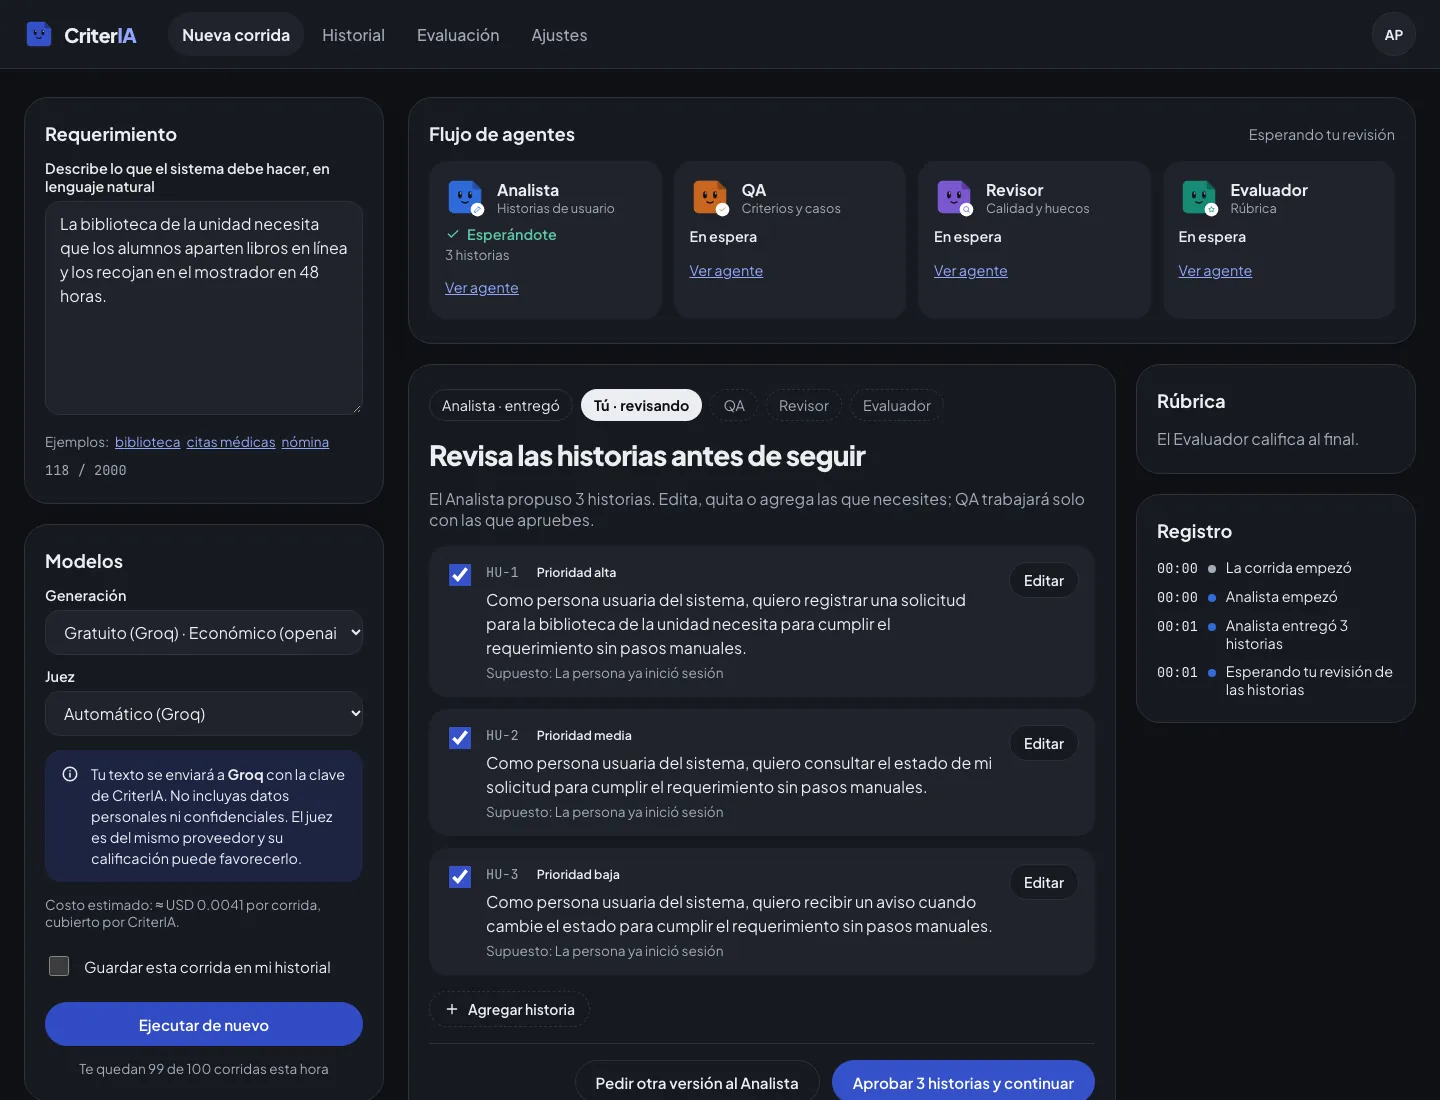
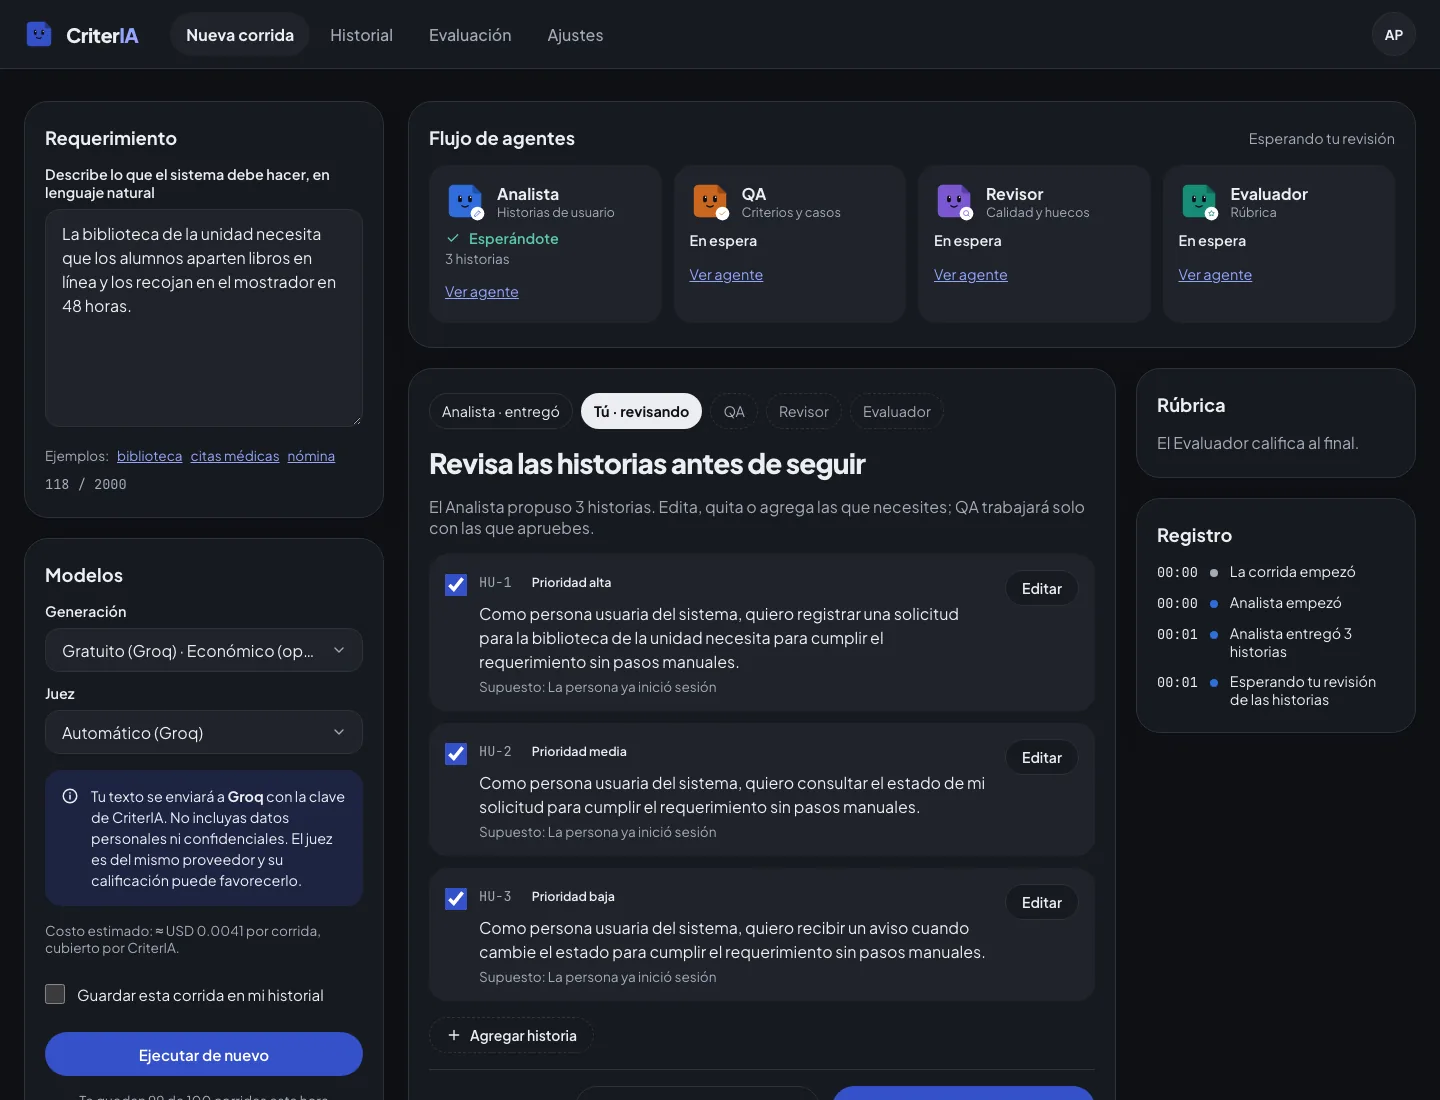
docs: document spacing and motion tokens and refresh the README screenshots

diff --git a/docs/ui.md b/docs/ui.md
@@ -1,0 +1,49 @@
+# Interfaz: espaciado y movimiento
+
+Los tokens viven en `apps/web/src/shared/ui/tokens.css`. Ningún módulo CSS usa valores sueltos para `padding`, `margin` o `gap`: si un valor no está en la escala, se ajusta al más cercano.
+
+## Espaciado
+
+| Token | Valor | Uso habitual |
+| --- | --- | --- |
+| `--space-4` | 4 px | Separación mínima entre icono y texto, desplazamiento de entrada |
+| `--space-8` | 8 px | Etiqueta y campo, elementos de una misma fila |
+| `--space-12` | 12 px | Ítems de una lista, distancia del chevron al texto del select |
+| `--space-16` | 16 px | Relleno horizontal de campos y avisos, entre campos de un formulario |
+| `--space-20` | 20 px | Relleno de tarjetas en 390 px |
+| `--space-24` | 24 px | Relleno de tarjetas en escritorio, entre tarjetas |
+| `--space-32` | 32 px | Entre secciones de una página |
+| `--space-40` | 40 px | Margen superior de la página de Privacidad |
+| `--space-48` | 48 px | Margen inferior de las páginas |
+
+Forma de los controles:
+
+- Campos, selects y botones miden `--size-control-min` (44 px) de alto; los botones `small` miden 36 px y solo comparten fila con otros botones `small`.
+- Los selects usan `appearance: none` y un chevron propio a `--space-16` del borde derecho, con relleno derecho suficiente para que el texto nunca lo toque. Cualquier icono dentro de un campo sigue la misma regla: centrado vertical exacto y distancia constante.
+- El icono de un aviso ocupa una caja del alto de la primera línea de texto, así queda alineado con ella aunque el aviso tenga varias líneas.
+
+## Movimiento
+
+| Token | Valor | Uso |
+| --- | --- | --- |
+| `--duration-fast` | 120 ms | Hover, foco y presión |
+| `--duration-base` | 200 ms | Cambio de pestaña, entrada de eventos y artefactos, salida del panel |
+| `--duration-slow` | 320 ms | Entrada del panel del agente |
+| `--ease-out` | `cubic-bezier(0, 0, 0.2, 1)` | Todo lo que entra |
+| `--ease-in` | `cubic-bezier(0.4, 0, 1, 1)` | Todo lo que sale |
+| `--motion-shift` | 4 px | Desplazamiento de una entrada |
+| `--motion-lift` | -1 px | Elevación de botones al pasar el cursor (las tarjetas usan el doble) |
+| `--motion-press` | 0.98 | Escala al presionar |
+| `--motion-slide` | 100 % | Recorrido del panel del agente |
+
+Reglas:
+
+- Solo se animan `transform` y `opacity`, para que nada provoque reflujo ni saltos de diseño.
+- Las clases compartidas están en `shared/ui/motion`: `enter` (fundido con desplazamiento leve), `fade` y `lift` (tarjetas que se pueden pulsar).
+- Mientras cargan datos se muestran esqueletos (`Skeleton`, `SkeletonCard`) con la forma del contenido, nunca un texto que luego empuja la página.
+- El panel del agente se desliza desde el borde derecho; al cerrar, incluido con Escape, el diálogo espera a que termine la salida antes de cerrarse.
+- Con `prefers-reduced-motion: reduce`, los tokens de distancia valen cero y la escala vale 1: las entradas quedan en un fundido, el panel aparece sin deslizarse, y los bucles (pulso de los esqueletos, parpadeo y balanceo de la Ficha) se detienen.
+
+## Verificación
+
+Las pruebas de pantallas de Playwright (`apps/web/e2e/screens`) corren en escritorio y 390 px, en claro y oscuro. En cada captura esperan a que terminen las animaciones finitas, pasan axe, verifican que no haya violaciones de CSP y, a 390 px, fallan si la página se desborda a lo ancho. Otra prueba confirma que con movimiento reducido los tokens de distancia valen cero.

diff --git a/docs/architecture.md b/docs/architecture.md
@@ -181,7 +181,7 @@ Las dos vistas de la corrida (clásica y, en F9, oficina) son widgets sobre la m
 - Los formularios con secretos (contraseña, clave de API, requerimiento) usan `method="post"` y no se pueden enviar antes de la hidratación, para que el navegador nunca los mande en una URL.
 - Eliminar la cuenta borra `auth.user`; las llaves foráneas de `app` borran en cascada los datos de la API.
 
-Los tokens de diseño viven en `src/shared/ui/tokens.css` (claro y oscuro con `prefers-color-scheme`), y las fuentes Plus Jakarta Sans y JetBrains Mono se sirven desde el propio origen con `next/font`. La `Ficha` tiene insignia de rol, patas, parpadeo ocasional y balanceo al trabajar, sin animación con `prefers-reduced-motion`.
+Los tokens de diseño viven en `src/shared/ui/tokens.css` (claro y oscuro con `prefers-color-scheme`), y las fuentes Plus Jakarta Sans y JetBrains Mono se sirven desde el propio origen con `next/font`. La `Ficha` tiene insignia de rol, patas, parpadeo ocasional y balanceo al trabajar, sin animación con `prefers-reduced-motion`. La escala de espaciado, los tokens de movimiento y sus reglas están en [ui.md](ui.md).
 
 ## Contrato
 
